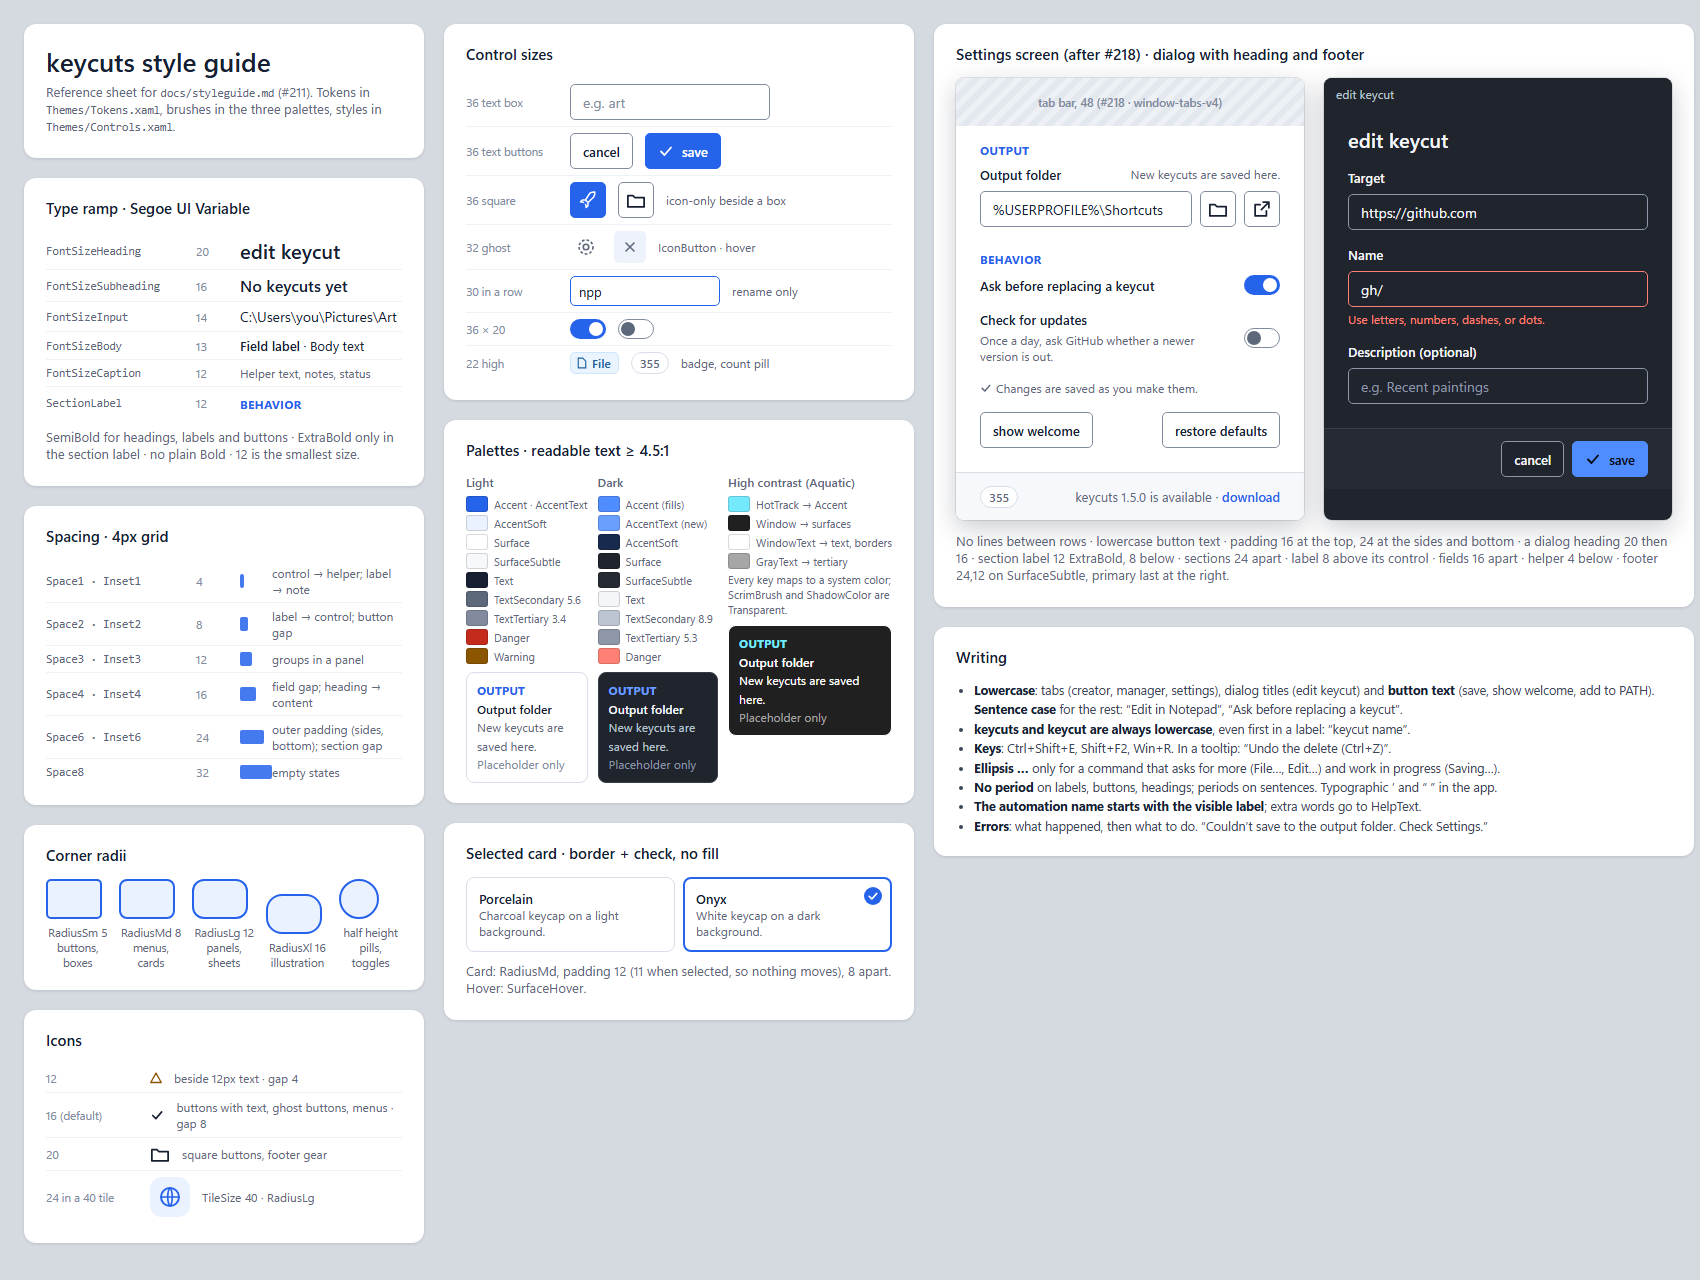
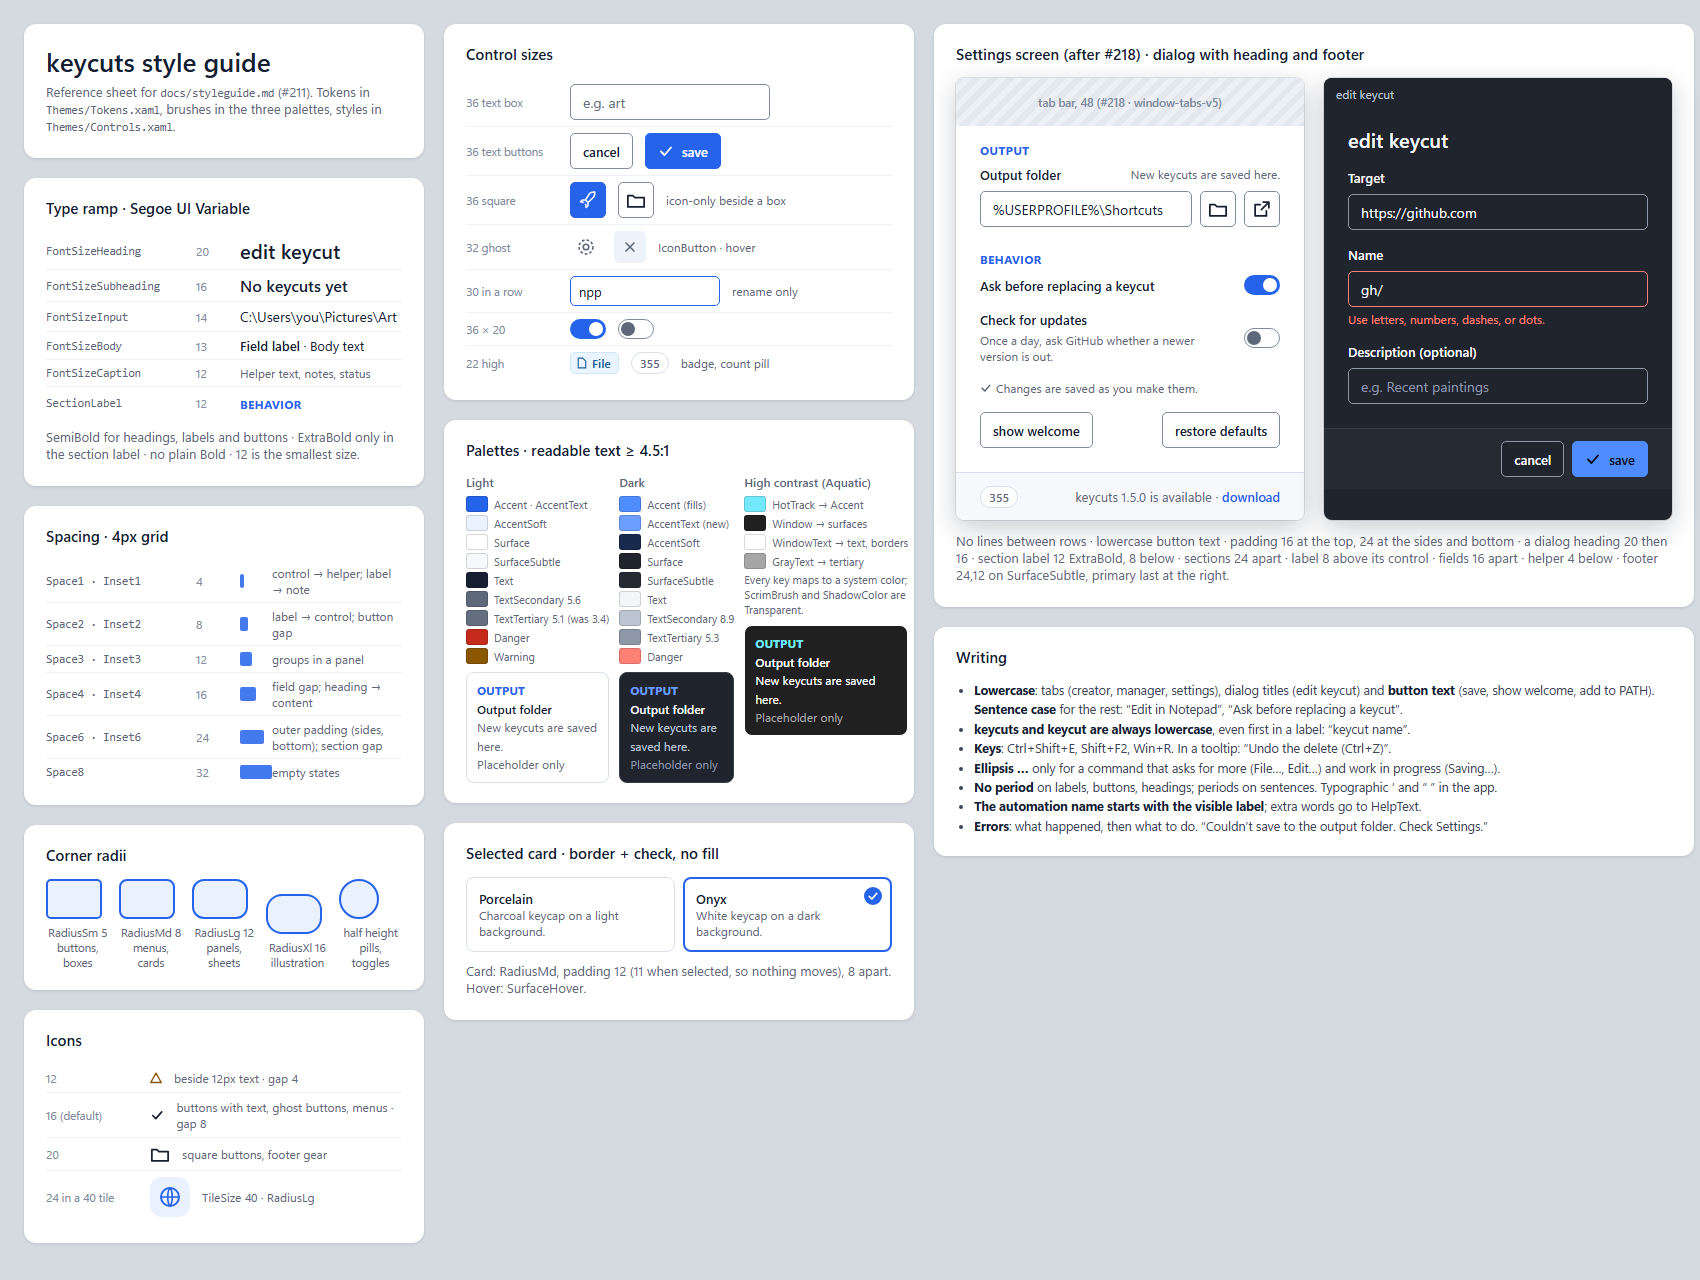
Require 4.5:1 for placeholders: light TextTertiaryBrush becomes #646e80
WCAG 1.4.3 covers placeholder text even beside a label (PR #220 review). Light tertiary was 3.0-3.4:1; #646e80 is 4.54:1 or better on every light surface and still lighter than secondary text. Dark is unchanged. The guide's roles, contrast notes, tokens and decisions say so, and the reference sheet shows it.

Changed region(s): [[0.3429, 0.375, 0.5612, 0.625], [0.2806, 0.5625, 0.3118, 0.5938]]

diff --git a/docs/mockups/styleguide.html b/docs/mockups/styleguide.html
@@ -8,7 +8,7 @@
 <style>
   :root {
     --accent:#2563eb; --accent-text:#2563eb; --accent-soft:#eaf1ff; --on-accent:#fff; --canvas:#eef1f5; --surface:#fff;
-    --subtle:#f6f8fb; --hover:#eef3fb; --raised:#fff; --text:#172033; --text2:#5d687b; --text3:#818b9d; --border:#d9dee8;
+    --subtle:#f6f8fb; --hover:#eef3fb; --raised:#fff; --text:#172033; --text2:#5d687b; --text3:#646e80; --border:#d9dee8;
     --border-strong:#bdc5d2; --control:#818b9d; --danger:#c42b1c; --warning:#8a5700; --success:#16794b;
   }
   .dark {
@@ -228,7 +228,7 @@
           <div class="sw"><i style="background:#f6f8fb"></i>SurfaceSubtle</div>
           <div class="sw"><i style="background:#172033"></i>Text</div>
           <div class="sw"><i style="background:#5d687b"></i>TextSecondary 5.6</div>
-          <div class="sw"><i style="background:#818b9d"></i>TextTertiary 3.4</div>
+          <div class="sw"><i style="background:#646e80"></i>TextTertiary 5.1 (was 3.4)</div>
           <div class="sw"><i style="background:#c42b1c"></i>Danger</div>
           <div class="sw"><i style="background:#8a5700"></i>Warning</div>
           <div class="text-on"><div class="a">Output</div><div class="p">Output folder</div><div class="s">New keycuts are saved here.</div><div class="t">Placeholder only</div></div>
@@ -274,7 +274,7 @@
       <h2>Settings screen (after #218) · dialog with heading and footer</h2>
       <div class="dialogs">
         <div class="win">
-          <div class="railph">tab bar, 48 (#218 · window-tabs-v4)</div>
+          <div class="railph">tab bar, 48 (#218 · window-tabs-v5)</div>
           <div class="body" style="position:relative">
             <div class="section">
               <div class="slabel">OUTPUT</div>

diff --git a/docs/styleguide.md b/docs/styleguide.md
@@ -47,6 +47,7 @@ Changes this guide makes to `Tokens.xaml` and the palettes (#219 makes them):
 | `RailHeight`, `TabHeight`, `CaptionButtonWidth` | none | **new** (#218): 48, 40, 46 | [Tabbed window](#tabbed-window-218) |
 | `Rail*`, `Tab*`, `Socket*`, `Caption*` brushes | none | **new** (#218), in all three palettes | The tab bar's colors come from the palettes, not literals |
 | `TileSize` | none | **new**: 40 | The inline icon tile ([decision](#decisions)) |
+| `TextTertiaryBrush` (Light) | `#818b9d`, 3.0-3.4:1 | **`#646e80`**, 4.54:1 or better on every light surface | Placeholders are text, and WCAG 1.4.3 covers them ([decision](#decisions)); `ControlBorderBrush` keeps `#818b9d` |
 
 Kept as they are: `RadiusSm/Md/Lg/Xl` (5/8/12/16), `Space1`-`Space8` and `Inset1`-`Inset4`, `IconButtonSize` (32), `AppFontFamily` (Segoe UI Variable, Segoe UI), `FontSizeCaption` (12), `FontSizeBody` (13), `FontSizeInput` (14), `FontSizeSubheading` (16), `FontSizeHeading` (20). Add `Inset6` (24) for the outer padding, and `Thickness` tokens for the composite values used below (`PagePadding` 24,16,24,24, `DialogFooterPadding` 24,12, `PanelPadding` 16).
 
@@ -195,7 +196,7 @@ In `Controls.xaml`, used by every window. Window-local copies (`SectionLabel` in
 |---|---|
 | `TextBrush` | Headings, labels, body text, values the user typed |
 | `TextSecondaryBrush` | **All readable supporting text**: helper text, notes, captions, status lines, table cells, column headers, menu item second lines, intros, Settings' "Changes are saved as you make them." |
-| `TextTertiaryBrush` | **Only** placeholders, disabled text, and decorative glyphs (the search icon). Never text someone needs to read |
+| `TextTertiaryBrush` | **Only** placeholders, disabled text, and decorative glyphs (the search icon). It meets 4.5:1 like any text, but it is for hints, never for text someone needs to read |
 | `AccentBrush` | Fills (primary button, toggle on, selection bar, check badge), focus ring, accent borders, icons |
 | `AccentTextBrush` (new) | Accent-colored **text**: section labels, links (Download, Undo), the active sort header |
 | `AccentSoftBrush` | Selected row, icon tile background, the welcome panel, drag-over fill |
@@ -216,9 +217,9 @@ In `Controls.xaml`, used by every window. Window-local copies (`SectionLabel` in
 - **Text people read meets 4.5:1** against every surface it can sit on, at every size the app uses. Even 16-20px SemiBold is short of WCAG's "large text" (24px, or 18.7px bold), so 3:1 never applies to text here.
 - **Non-text UI** (control borders, the focus ring, icons that carry meaning) meets 3:1.
 - Measured today (WCAG relative luminance):
-  - `TextTertiaryBrush` is 3.0-3.4:1 in the light palette. That is fine for placeholders and decoration and fails for the text it colors now: the Creator's name helper line, the Manager's column headers, the Browse menu's second lines and the icon picker's group headers. Those move to `TextSecondaryBrush` (5.0-5.6:1).
+  - `TextTertiaryBrush` is 3.0-3.4:1 in the light palette, which fails for every text it colors: placeholders (WCAG 1.4.3 covers them even beside a label), the Creator's name helper line, the Manager's column headers, the Browse menu's second lines and the icon picker's group headers. Light tertiary becomes `#646e80` (4.54:1 on `CanvasBrush` and `AccentSoftBrush`, 5.14:1 on white), still lighter than secondary, so placeholders stay recognizably hints. The helper line, headers, menu lines and group headers move to `TextSecondaryBrush` (5.0-5.6:1) anyway, because they aren't hints. Dark tertiary `#8d97a8` already passes on the surfaces text sits on (4.76:1 or better).
   - `AccentBrush` as text in the dark palette is 4.48:1 on `SurfaceSubtleBrush` (the footer's Download link, Confirm's section labels, the active sort header on the table header) and 3.90:1 on `SurfaceHoverBrush`. `AccentTextBrush` at `#6a9eff` is 4.75-5.89:1 on every dark surface. The light palette's accent already passes (4.56:1 at worst, on `AccentSoftBrush`), so light `AccentTextBrush` is the same `#2563eb`.
-- `ThemeTests.ContrastPairs` gains the pairs this adds: `AccentTextBrush` on every surface at 4.5, `TabTextBrush` on both ends of the inactive tab's gradient and `TextBrush` on the bar at 4.5 (#218), `TextSecondaryBrush` on `AccentSoftBrush` at 4.5 (the welcome panel's text), and `TextTertiaryBrush` stays at 3.0 with a comment naming the only uses it may have.
+- `ThemeTests.ContrastPairs` gains the pairs this adds: `AccentTextBrush` on every surface at 4.5, `TabTextBrush` on both ends of the inactive tab's gradient and `TextBrush` on the bar at 4.5 (#218), `TextSecondaryBrush` on `AccentSoftBrush` at 4.5 (the welcome panel's text), and `TextTertiaryBrush` rises from 3.0 to 4.5 on `CanvasBrush`, `SurfaceBrush`, `SurfaceSubtleBrush` and `SurfaceRaisedBrush`, with a comment naming the only uses it may have.
 
 ## Control sizes
 
@@ -326,7 +327,7 @@ Not elsewhere: the Creator's target placeholder "Drop or paste a file, folder, U
 
 ### Placeholders
 
-A placeholder is a hint inside an empty box, in `TextTertiaryBrush`. Anything people need goes in the label or helper text instead. The Name and Description fields use **examples, the same in both forms** ([decision](#decisions)): "e.g. art" and "e.g. Recent paintings". The Edit form changes from "What you type in Win+R" and "What is it for? Shown in the manager". "e.g." with no comma after it is allowed in placeholders only, where space is tight; elsewhere write "for example". A placeholder that isn't an example says what goes there ("Search names, types, descriptions, or targets", "A file, folder, or URL").
+A placeholder is a hint inside an empty box, in `TextTertiaryBrush` (4.5:1, like all text). Anything people need goes in the label or helper text instead. The Name and Description fields use **examples, the same in both forms** ([decision](#decisions)): "e.g. art" and "e.g. Recent paintings". The Edit form changes from "What you type in Win+R" and "What is it for? Shown in the manager". "e.g." with no comma after it is allowed in placeholders only, where space is tight; elsewhere write "for example". A placeholder that isn't an example says what goes there ("Search names, types, descriptions, or targets", "A file, folder, or URL").
 
 ### Messages
 
@@ -366,6 +367,7 @@ Answers from the owner. Each settles a discrepancy; the date is when it was made
 | 2026-11-13 | Settings tab (aligning with #218) | #218: the gear alone, named `Settings` | **The gear alone, no text**; `settings` is its tooltip and automation name |
 | 2026-11-13 | Icon picker over the Settings screen (aligning with #218) | #218: disables everything, the tab bar included | **Disables the page and the tabs**; the caption buttons and dragging stay available |
 | 2026-11-13 | Main window width and headings (aligning with #218) | Creator 440; headings `keycuts creator` and `keycuts manager` | The Creator and Settings share `MainWidth`, set by the tab bar; Confirm keeps 440 and Edit 480; the main screens lose their headings (#218) |
+| 2026-11-13 | Placeholder contrast (PR #220 review) | Light `TextTertiaryBrush` `#818b9d`, 3.44:1, allowed for placeholders | **4.5:1 for placeholders too**: light `TextTertiaryBrush` becomes `#646e80`; dark is unchanged |
 | 2026-11-13 | Dialog button order | Cancel, then primary at the far right | **Keep it**: primary last, at the far right. A deliberate difference from Fluent's ContentDialog, which puts the primary button first |
 
 Defaults taken from best practice, listed in #211 and not overturned: the 4px grid, one outer padding (24, with 16 at the top since the owner's change), one dialog footer (`24,12`), radii from the tokens only, readable text at 4.5:1, body text at 13 and inputs at 14, no plain Bold, one set of shared text styles, headings marked for assistive tech, colors only from theme brushes, and the writing rules above.
